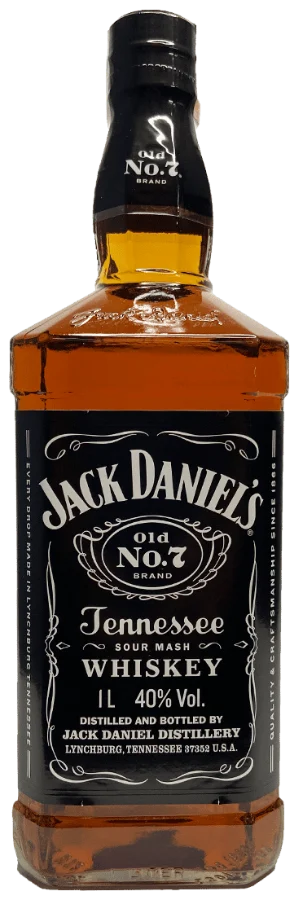
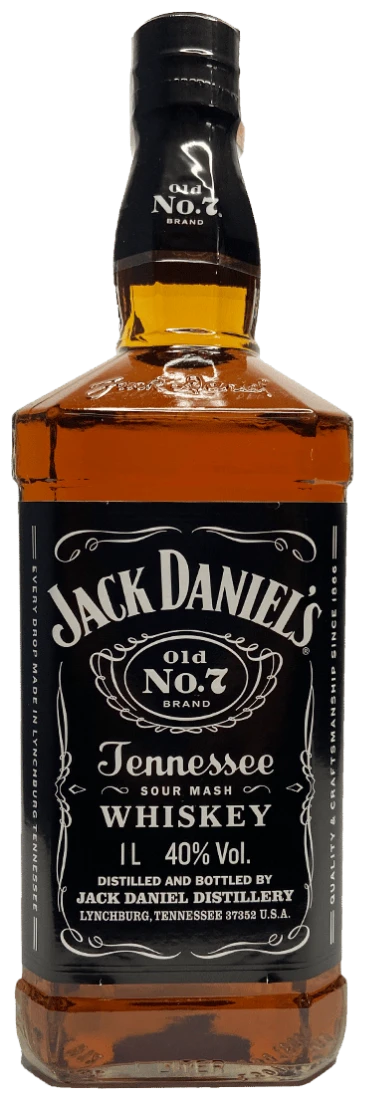
Mudanças nas animações

diff --git a/js/products.js b/js/products.js
@@ -2,7 +2,7 @@
    VeriSeal Delivery — catálogo (dados estáticos do frontend)
    Só entram aqui garrafas com foto real em assets/products/.
    As fotos foram recortadas (fundo transparente) a partir das
-   imagens originais da pasta do projeto.
+   imagens originais guardadas em assets/originais/.
 
    img / size  → arquivo e tamanho em px da foto recortada
    seal        → onde o lacre VeriSeal cruza a garrafa:
@@ -36,7 +36,7 @@ window.VSD_PRODUCTS = [
   {
     id: 'jack-7', brand: "Jack Daniel's", name: 'Old No.7', category: 'whisky',
     volume: '1 L', abv: 40, origin: 'EUA (Tennessee)', price: 169.90, oldPrice: 199.90, featured: true,
-    img: P + 'jack-7.webp', size: [299, 900], seal: { y: .09, w: .13 },
+    img: P + 'jack-7.webp', size: [365, 1100], seal: { y: .09, w: .13 },
     gallery: [{ src: P + 'jack-7-box.webp', size: [514, 900], label: 'Com estojo' }],
     desc: 'O Tennessee whiskey mais famoso do mundo, filtrado gota a gota em carvão de bordo. Macio, com caramelo, baunilha e carvalho tostado.',
     notes: ['Caramelo', 'Baunilha', 'Carvalho tostado']
@@ -60,7 +60,7 @@ window.VSD_PRODUCTS = [
   {
     id: 'absolut-1l', brand: 'Absolut', name: 'Vodka', category: 'vodka',
     volume: '1 L', abv: 40, origin: 'Suécia', price: 89.90, oldPrice: 109.90, badge: 'Mais vendido', featured: true,
-    img: P + 'absolut-1l.webp', size: [193, 550], seal: { y: .075, w: .14 },
+    img: P + 'absolut-1l.webp', size: [201, 553], seal: { y: .078, w: .14 },
     desc: 'Vodka sueca feita com trigo de inverno e água de Åhus. Limpa e encorpada, base perfeita para qualquer drink.',
     notes: ['Limpa', 'Trigo', 'Final seco']
   },
@@ -77,6 +77,13 @@ window.VSD_PRODUCTS = [
     img: P + 'absolut-tabasco.webp', size: [165, 490], seal: { y: .21, w: .14 },
     desc: 'Vodka saborizada com a pimenta Tabasco: picância na medida, ótima para Bloody Mary e shots.',
     notes: ['Pimenta', 'Picante', 'Bloody Mary']
+  },
+  {
+    id: 'skyy', brand: 'Skyy', name: 'Vodka', category: 'vodka',
+    volume: '980 ml', abv: 40, origin: 'EUA', price: 49.90,
+    img: P + 'skyy.webp', size: [164, 593], seal: { y: .06, w: .15 },
+    desc: 'Vodka americana destilada quatro vezes e filtrada três vezes. Suave e limpa, na icônica garrafa azul.',
+    notes: ['Suave', 'Limpa', 'Garrafa azul']
   },
   {
     id: 'smirnoff', brand: 'Smirnoff', name: 'Nº 21', category: 'vodka',
@@ -176,9 +183,9 @@ window.VSD_PRODUCTS = [
 
 /* lacres de exemplo (os pedidos feitos no site geram lacres novos) */
 window.VSD_SEALS = {
-  'VS-7K2M-9QXA': { product: 'jw-black', status: 'ok', lot: 'L26-0914', made: '14/09/2026', checks: 1, sentAgo: 26 },
+  'VS-7K2M-9QXA': { product: 'jack-7', status: 'ok', lot: 'L26-0914', made: '14/09/2026', checks: 1, sentAgo: 26 },
   'VS-3PWD-8FJT': { product: 'tanqueray', status: 'ok', lot: 'L26-0822', made: '22/08/2026', checks: 2, sentAt: 'ontem · 19:30' },
-  'VS-4HZP-1LCE': { product: 'jack-7', status: 'opened', lot: 'L26-0730', made: '30/07/2026', checks: 6, openedAt: '02/10/2026 · 21:42' }
+  'VS-4HZP-1LCE': { product: 'jw-black', status: 'opened', lot: 'L26-0730', made: '30/07/2026', checks: 6, openedAt: '02/10/2026 · 21:42' }
 };
 
 window.VSD_SAMPLE_CODES = [

diff --git a/js/app.js b/js/app.js
@@ -427,9 +427,12 @@
     sync(); restart();
   });
 
+  // garrafa das animações de verificação: foto com bordas limpas, que fica bem no fundo escuro
+  const DEMO = 'jack-7';
+
   /* ---------- cartão VeriSeal do topo: mini-verificação em loop ---------- */
   safe('vsCard', () => {
-    const p = byId['jw-black'], g = sealGeo(p);
+    const p = byId[DEMO], g = sealGeo(p);
     const stage = $('#vcStage');
     stage.innerHTML = `
       <div class="vc-glow"></div>
@@ -1102,7 +1105,7 @@
 
   /* ============================================================
      COMO FUNCIONA — pedido → entrega → aproximação NFC → resultado
-     A foto do Black Label vira duas camadas: tampa (com a metade de
+     A foto do Jack Daniel's vira duas camadas: tampa (com a metade de
      cima do lacre) e garrafa. No modo "violado" a tampa gira e sobe,
      rompendo o lacre na linha de ruptura.
      ============================================================ */
@@ -1112,7 +1115,7 @@
     const seg = $('#howSeg'), segBtns = $$('button', seg), playBtn = $('#howPlay');
     const scr = { read: $('.ap-read', scene), ok: $('.ap-ok', scene), bad: $('.ap-bad', scene) };
     const checks = $$('.ap-checks li', scene);
-    const P = byId['jw-black'], g = sealGeo(P);
+    const P = byId[DEMO], g = sealGeo(P);
     const hsBottle = $('#hsBottle');
     hsBottle.style.setProperty('--ar', `${P.size[0]} / ${P.size[1]}`);
     hsBottle.style.setProperty('--seal', g.nfc.toFixed(4));      // ondas e etiquetas saem do símbolo NFC
@@ -1128,7 +1131,7 @@
       <div class="hs-layer hs-cap" style="clip-path:${capClip};transform-origin:${pc(g.x + g.sw)} ${pc(g.y)}">${shot(P, { eager: true })}</div>`;
     $$('[data-thumb]', scene).forEach((el) => { el.innerHTML = shot(P, { torn: el.dataset.thumb === 'bad' }); });
     $$('.ap-prod > div', scene).forEach((el) => { el.querySelector('b').textContent = P.name; el.querySelector('span').textContent = `${P.brand} · ${P.volume} · ${abv(P)}`; });
-    const order = [['jw-black', 1], ['tanqueray', 1]];
+    const order = [[DEMO, 1], ['tanqueray', 1]];
     $('#dpItems').innerHTML = order.map(([id, q]) => {
       const p = byId[id];
       return `<li><span class="dp-thumb">${shot(p)}</span><span class="dp-name"><b>${esc(p.name)}</b><span>${esc(p.brand)} · ${q}×</span></span><b class="dp-price">${money(p.price * q)}</b></li>`;

diff --git a/index.html b/index.html
@@ -307,7 +307,7 @@
                     <div class="ap-sym ok"><svg viewBox="0 0 52 52"><path d="M15 27.5l7.5 7.5L37.5 19.5" pathLength="1"/></svg></div>
                     <p class="ap-title ok">Autêntico</p>
                     <p class="ap-sub">Lacre íntegro · nunca aberto</p>
-                    <div class="ap-prod"><span class="ap-thumb" data-thumb="ok"></span><div><b>Black Label 12 anos</b><span>Johnnie Walker · 750 ml · 40%</span></div></div>
+                    <div class="ap-prod"><span class="ap-thumb" data-thumb="ok"></span><div><b>Old No.7</b><span>Jack Daniel's · 1 L · 40%</span></div></div>
                     <dl class="ap-card"><div><dt>Lacre</dt><dd class="mono">VS-7K2M-9QXA</dd></div><div><dt>Conferido no envio</dt><dd id="apSent">hoje</dd></div></dl>
                     <ol class="ap-journey"><li>Produção</li><li>Distribuidor</li><li>Envio</li><li class="me">Você</li></ol>
                     <span class="ap-btn">Ver jornada completa</span>
@@ -316,7 +316,7 @@
                     <div class="ap-sym bad"><svg viewBox="0 0 52 52"><path d="M26 14.5v15M26 37v.5" pathLength="1"/></svg></div>
                     <p class="ap-title bad">Lacre violado</p>
                     <p class="ap-sub">A garrafa foi aberta depois do envio</p>
-                    <div class="ap-prod"><span class="ap-thumb" data-thumb="bad"></span><div><b>Black Label 12 anos</b><span>Johnnie Walker · 750 ml · 40%</span></div></div>
+                    <div class="ap-prod"><span class="ap-thumb" data-thumb="bad"></span><div><b>Old No.7</b><span>Jack Daniel's · 1 L · 40%</span></div></div>
                     <dl class="ap-card"><div><dt>Rompido em</dt><dd id="apBroken">hoje</dd></div><div><dt>Situação</dt><dd class="bad-t">circuito rompido</dd></div></dl>
                     <p class="ap-note">Não aceite a garrafa: recuse a entrega e receba o valor integral.</p>
                     <span class="ap-btn bad">Recusar e reembolsar</span>
